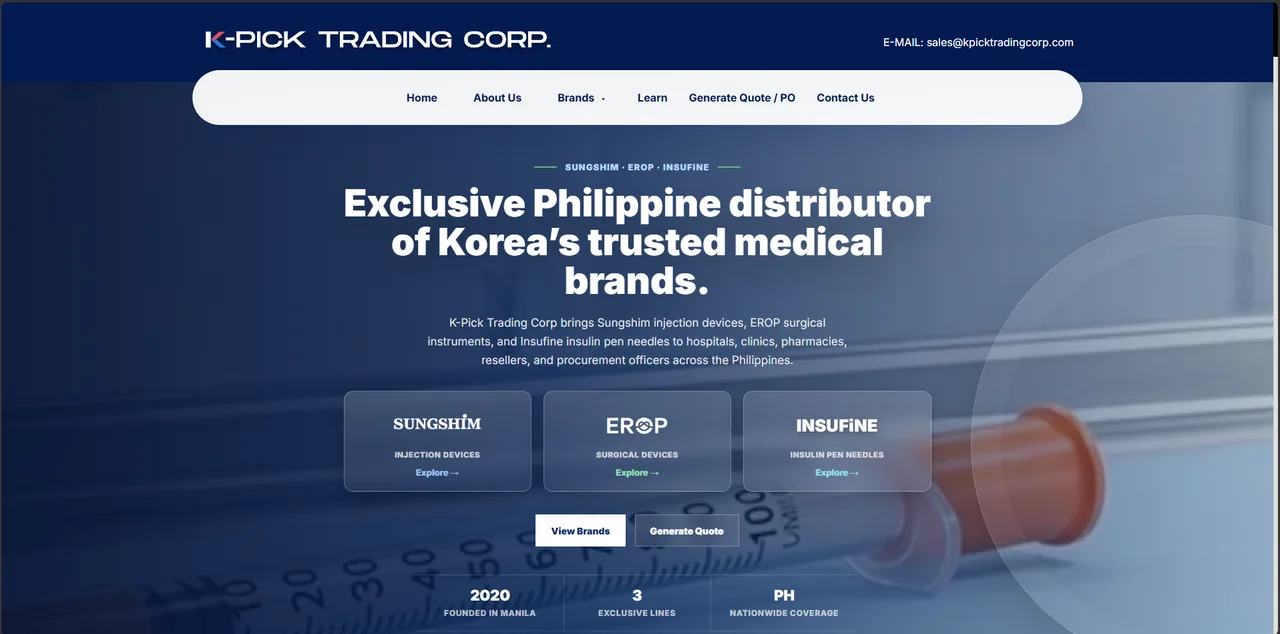
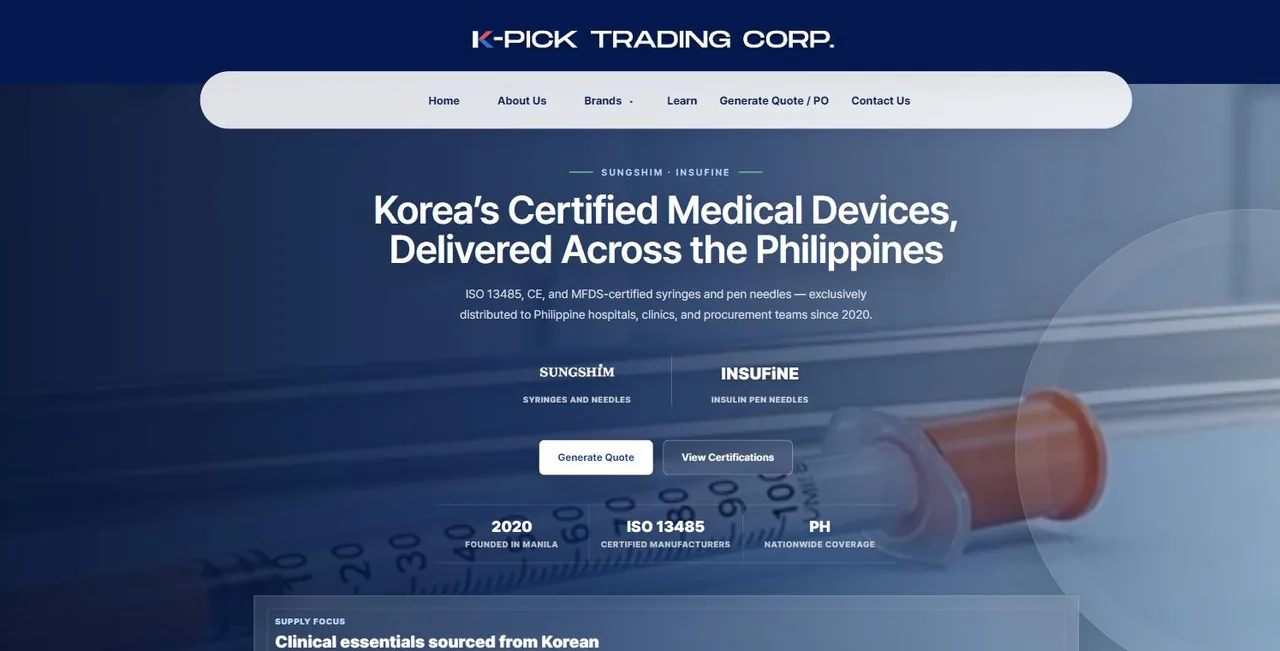
chore(work): refresh the K-Pick website screenshot
The homepage was recomposed in September; the card still showed the old
design. Recaptured from the live site at 1440px, cropped to drop the
browser scrollbar and an extension icon, and re-encoded to WebP (41KB).

The filename is unchanged, so the img src carries a version query to stop
browsers serving the previous capture.

Claude-Session: https://claude.ai/code/session_018g2ZSPnNJVtuz9ruq5nis3

diff --git a/index.html b/index.html
@@ -1106,7 +1106,7 @@
         <!-- ── Web ───────────────────────────────────────────── -->
         <div class="col-12 col-sm-6 col-lg-6 col-md-6 portfolio-item filter-web">
           <div class="portfolio-wrap">
-            <img src="assets/img/portfolio/kpick-website.webp" class="img-fluid" alt="K-Pick Trading Corp Website" loading="lazy" decoding="async">
+            <img src="assets/img/portfolio/kpick-website.webp?v=20260921" class="img-fluid" alt="K-Pick Trading Corp Website" loading="lazy" decoding="async">
             <div class="portfolio-info">
               <span class="case-file-label">kpicktradingcorp.com</span>
               <h4>K-Pick Trading Corp Website</h4>
